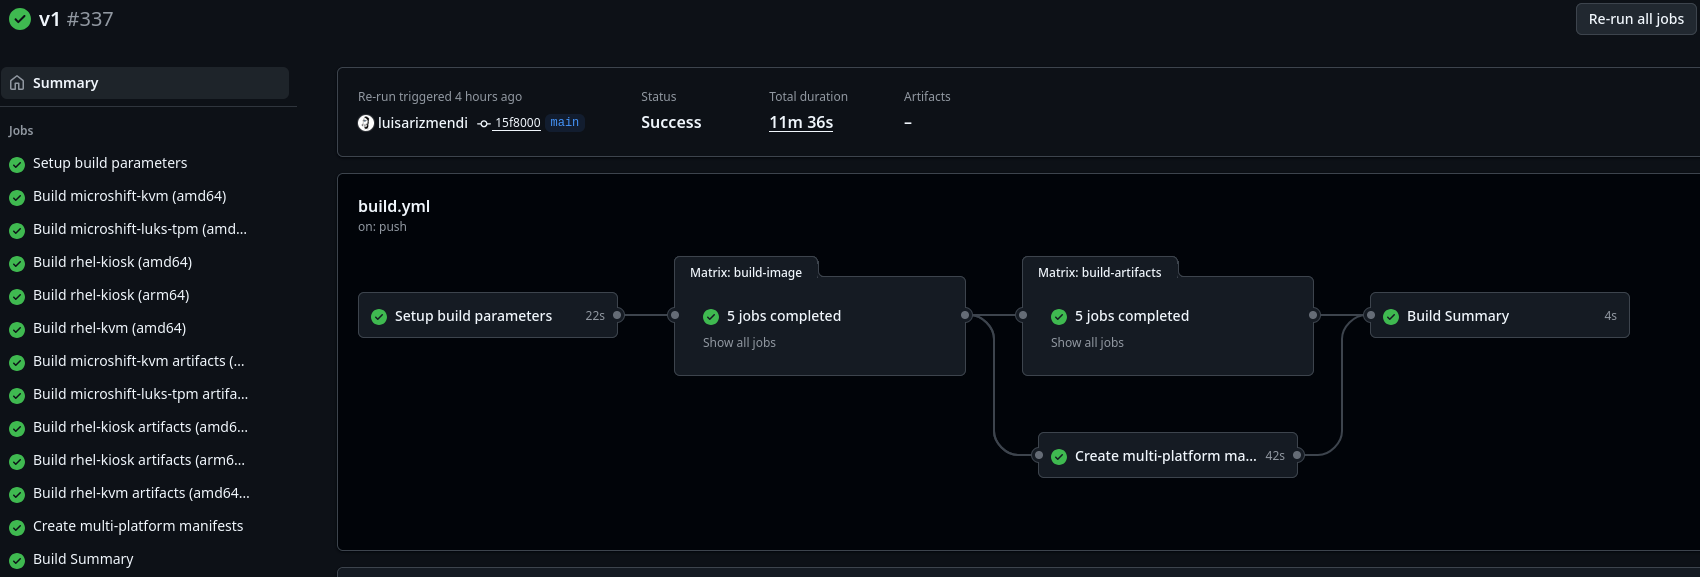
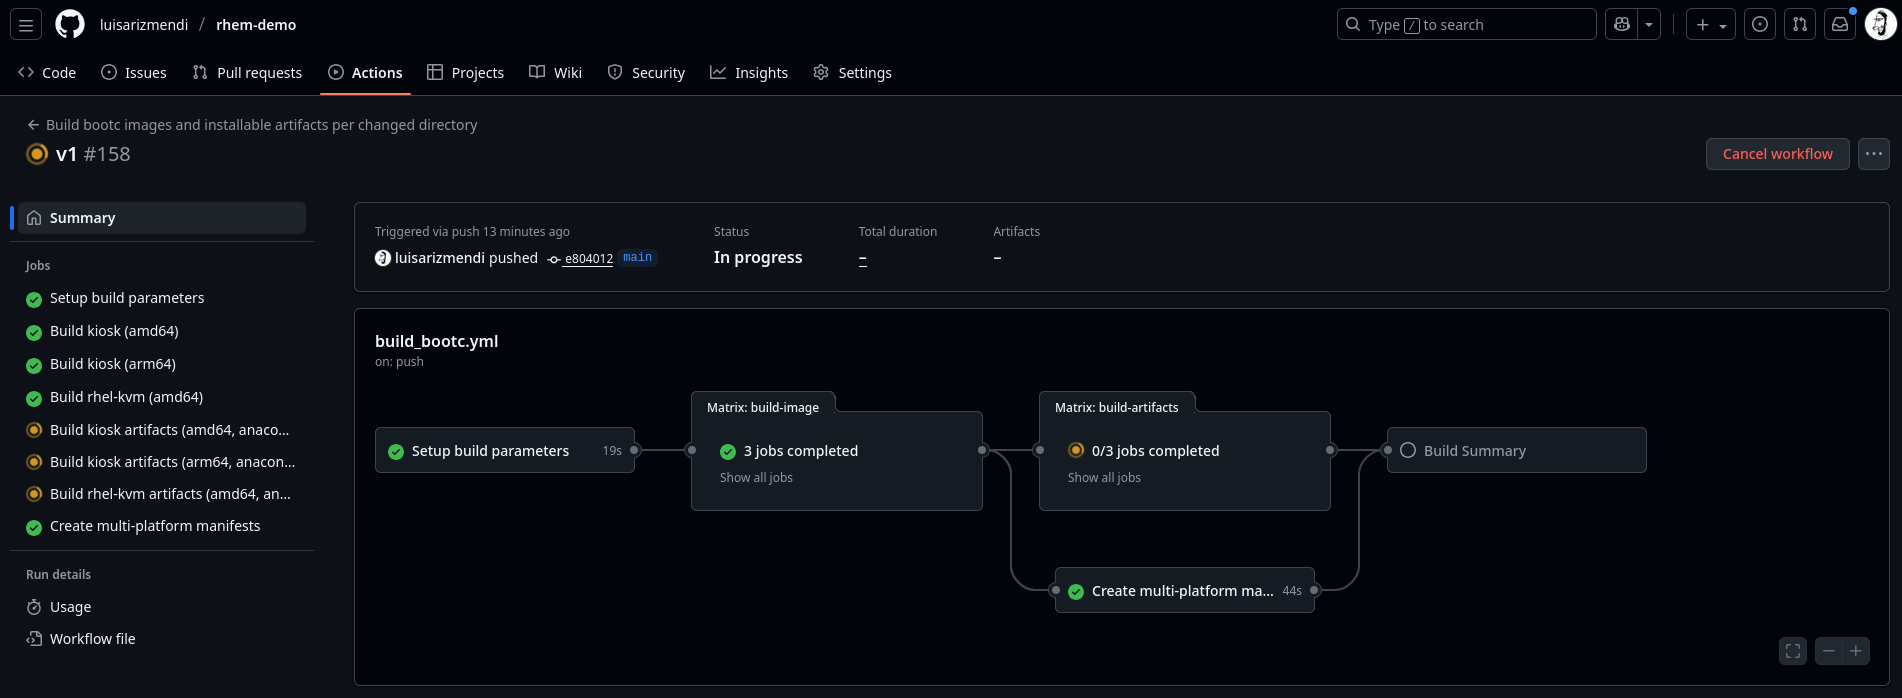
docs

diff --git a/docs/04-demo-script.md b/docs/04-demo-script.md
@@ -149,10 +149,13 @@ A step-by-step guide for running the Red Hat Edge Manager demo. Each section inc
      * Your function with `function=<directory name under configs/function>`, e.g. `function=kiosk-energy`
    - Accept enrollment
 
+   **Note:** The kiosk image has enabled the `kiosk-solvent-recovery` function by default, so if you want to see a change in the APP you should configure your label to a diffent value than that one.
+
 3. **Wait for drift detection**:
    - Explain drift detection process
-   - Explain tahat full configuration takes several minutes (~6.5 minutes) because it needs to download some container images for the APPs
-   - Move on to the next demo step while device is updating.
+   - Wait until the `Update status` is "Up-to-date" (~1 minute)
+
+   **Note:** If you have in your `fleet.yaml` any other image version different than the one that it is installed by default with the ISO (`<name>:latest-<arch>`) there will be a System upgrade that will take more time (~6.5 minutes) since it needs to download the new image. 
 
 
 ![step 3](step-3.png)
@@ -162,21 +165,6 @@ A step-by-step guide for running the Red Hat Edge Manager demo. Each section inc
 - Reduces management overhead
 - Consistent policy application
 - Flexible device categorization
-
-
-
-
-
-
-
-
-
-
-
-
-
-
-
 
 
 
@@ -192,17 +180,18 @@ A step-by-step guide for running the Red Hat Edge Manager demo. Each section inc
 ### Demo Steps
 
 1. **Show configuration config in fleet definion**:
-   - Open [rhem/fleets/kiosk.yaml](../rhem/fleets/kiosk.yaml) and show the config section
+   - Open [rhem/fleets/kiosk.yaml](../rhem/fleets/kiosk.yaml) and show the `config` section
    - Click Create a new Fleet in RHEM to show the Configuration management options
-
 
 
 2. **Verify configuration**:
    ```bash
-   # SSH or VM console login
    ssh user@device-ip
-   # MOTD should display the configured message
+   # MOTD should display the configured message (`This system is managed by flightctl.`)
    ```
+
+3. **Verify kiosk APP**:
+   Depending on the label `function` assigned to the device, you will get an APP or another. See below an example for `kiosk-energy` 
 
 
 ![step 4](step-4.png)
@@ -214,16 +203,6 @@ When to Use Runtime Configuration:
 - Deployment-specific settings  
 - Security credentials (not safe in images)
 - Frequently changing parameters
-
-
-
-
-
-
-
-
-
-
 
 
 
@@ -241,15 +220,11 @@ When to Use Runtime Configuration:
 ### Demo Steps
 
 1. **Show application definition**:
-   ```bash
-   # Show compose file and how it's packaged
-   cat apps/compose/postgres/compose.yaml
-   cat apps/compose/postgres/Containerfile
-   ```
+   Show the compose file and how it's packaged by reviewing repo files under `apps/compose/postgres`
 
-2. **Deploy application (v1)**:
-   - Open device in RHEM UI
-   - Configure application:
+2. **Explain what was deployed into the Fleet**:
+   - Open [rhem/fleets/kiosk.yaml](../rhem/fleets/kiosk.yaml) and show the `applications` section
+   - Review the values:
      - Image: `ghcr.io/luisarizmendi/app-postgres:v1`
      - Environment variables:
        ```
@@ -260,26 +235,22 @@ When to Use Runtime Configuration:
        PGADMIN_PW=pgredhat
        ```
 
-3. **Monitor deployment**:
-   - **Wait time**: ~4 minutes for image pulls and startup
-   - Optional: Show container activity:
+3. **Review the deployment**:
+   - SSH to the device
+   - Check that the images were pulled:
      ```bash
-     # terminal 1
-     watch 'podman image list; echo ""; podman ps'
+     podman image list
      ```
-
+   - Check that containers are running:
      ```bash
-     # terminal 2
-     journalctl -f 
+     podman ps
      ```     
 
 4. **Verify application**:
    - Access pgAdmin: `http://device-ip:5050`
-   - Login with configured credentials
-   - Show pgAdmin version (9.5)
+   - Login with configured credentials (`pgadmin@none.com` / `pgredhat`)
+   - Show pgAdmin version (9.5) by click on the up menu in `Help` > `About pgAdmin 4`
    - Optional: Configure PostgreSQL connection
-
-
 
 
 ![step 5](step-5.png)
@@ -322,72 +293,48 @@ When to Use Runtime Configuration:
 
 ### Demo Steps
 
+1. **Check the running Image version**
+   - Log into the device
+   - Check the running version with `bootc status`
+
+2. Update the Fleet configuration
+   - Change application and image version to `v2` in fleet definition file that you are using under `rhem/fleets`, for example, if you used `kiosk`:
+
+```yaml
+...
+    spec:
+      applications:
+      - envVars:
+          PGADMIN_MAIL: pgadmin@none.com
+          PGADMIN_PW: pgredhat
+          POSTGRES_DB: postgres
+          POSTGRES_PW: pgadmin
+          POSTGRES_USER: pgredhat
+        image: ghcr.io/luisarizmendi/app-postgres:v2
+        name: postgres
+      config:
+...
+      os:
+        image: ghcr.io/luisarizmendi/device-kiosk:v2
+
+```
 
 
-
-
-5. **Demonstrate upgrade to v2**:
-   - Edit device application configuration
-   - Change image to: `app-postgres:v2`
-   - **Wait time**: ~2 minutes for upgrade
-   - Login to pgAdmin again, show version 9.6
-
-
-
-
-
-
-
-1. **Check current OS version**:
-   ```bash
-   # SSH to device
-   bootc status
-   # Note the current image version
-   ```
-
-2. **Configure OS image in RHEM**:
-   - Edit device in RHEM UI
-   - Set bootc image: `ghcr.io/luisarizmendi/device-demo-kvm:v2`
-   - Apply changes
-
-3. **Monitor upgrade process**:
-   - **Wait time**: ~5 minutes total
-   - Device downloads new image
-   - Stages update and reboots
+2. **Monitor upgrade process**:
+   - Wait until the device downloads new image, stages update and reboots (~ minutes)
    - Show RHEM UI status during process
 
-4. **Verify upgrade**:
-   ```bash
-   # After reboot, SSH to device
-   bootc status
-   # Confirm new image version
-   ```
-
-   Open `https://device-ip:9090` to show the Cockpit console.
-
-
+3. **Verify upgrade**:
+   - Log into the device.
+   - Check the running version with `bootc status`.
+   - If you instelled any new RPM (e.g. `tmux` or `cockpit`) try to use it.
+   - Open the pgAdmin application and check the version.
 
 ![step 6](step-6.png)
 
 
 ###  What to Mention
 - Benefits of bootc upgrades (atomic, consistent, and reproducible updates).
-
-
-
-
-
-
-
-
-
-
-
-
-
-
-
-
 
 
 ---
